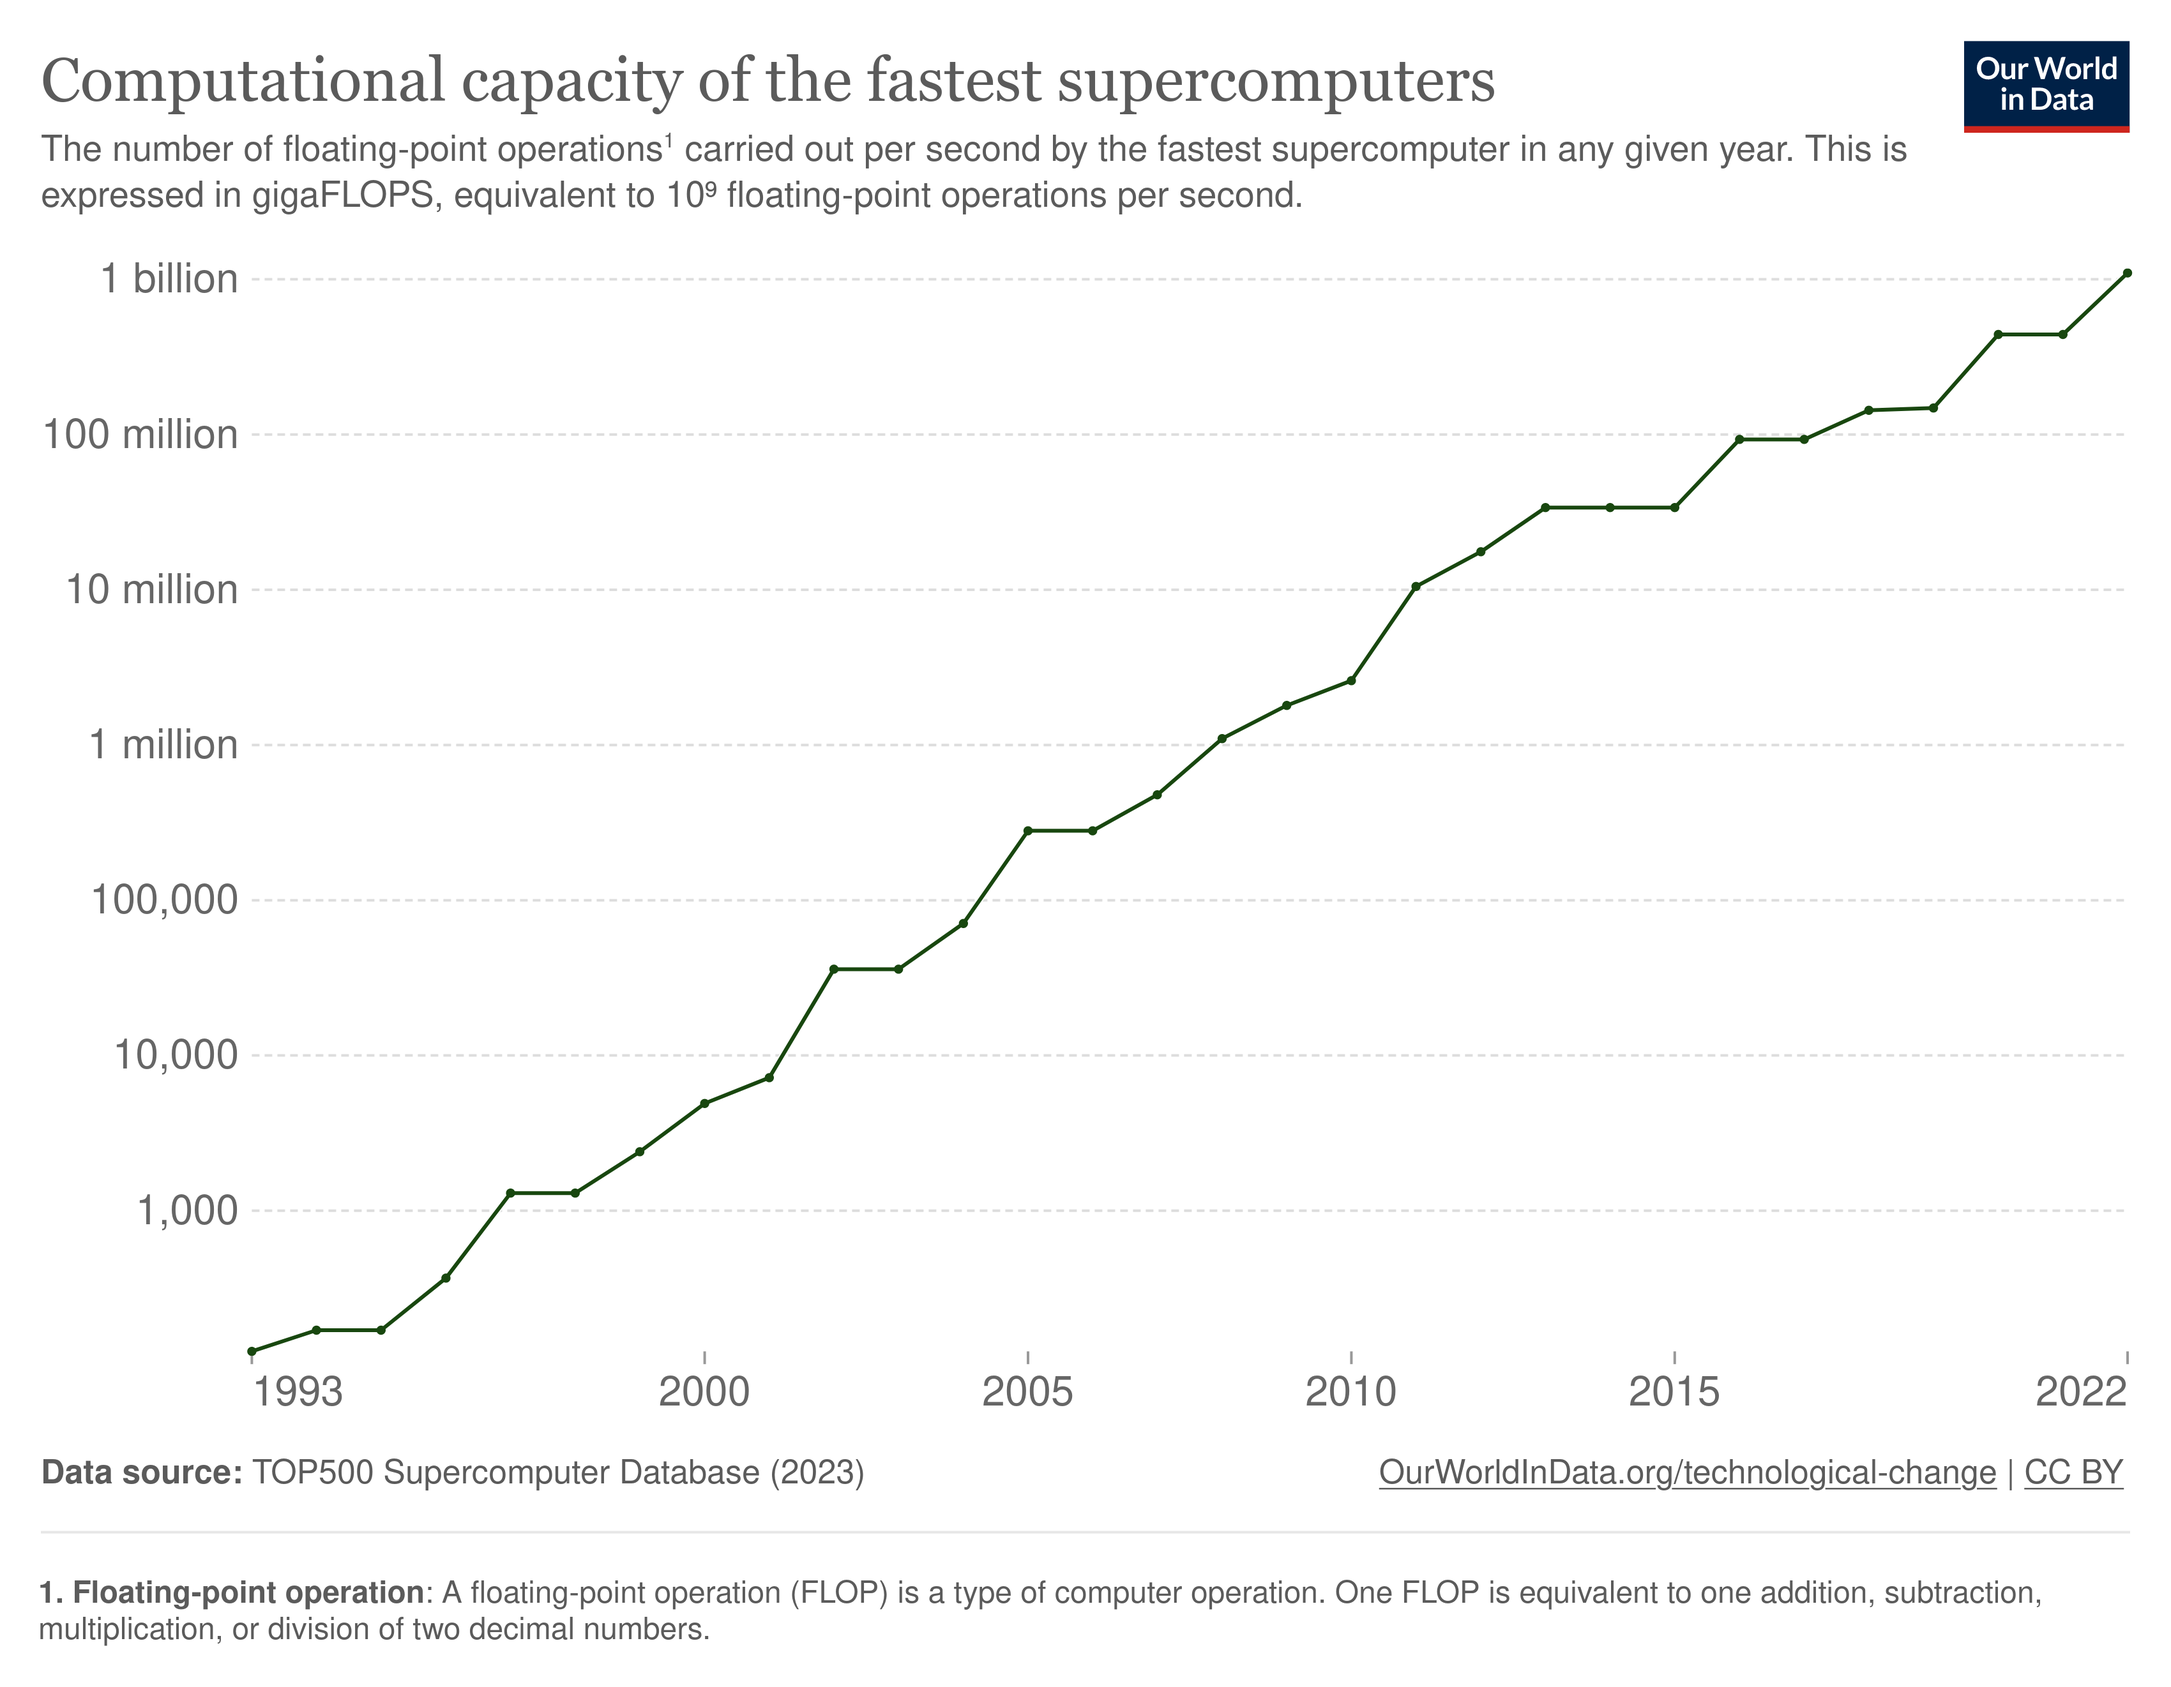
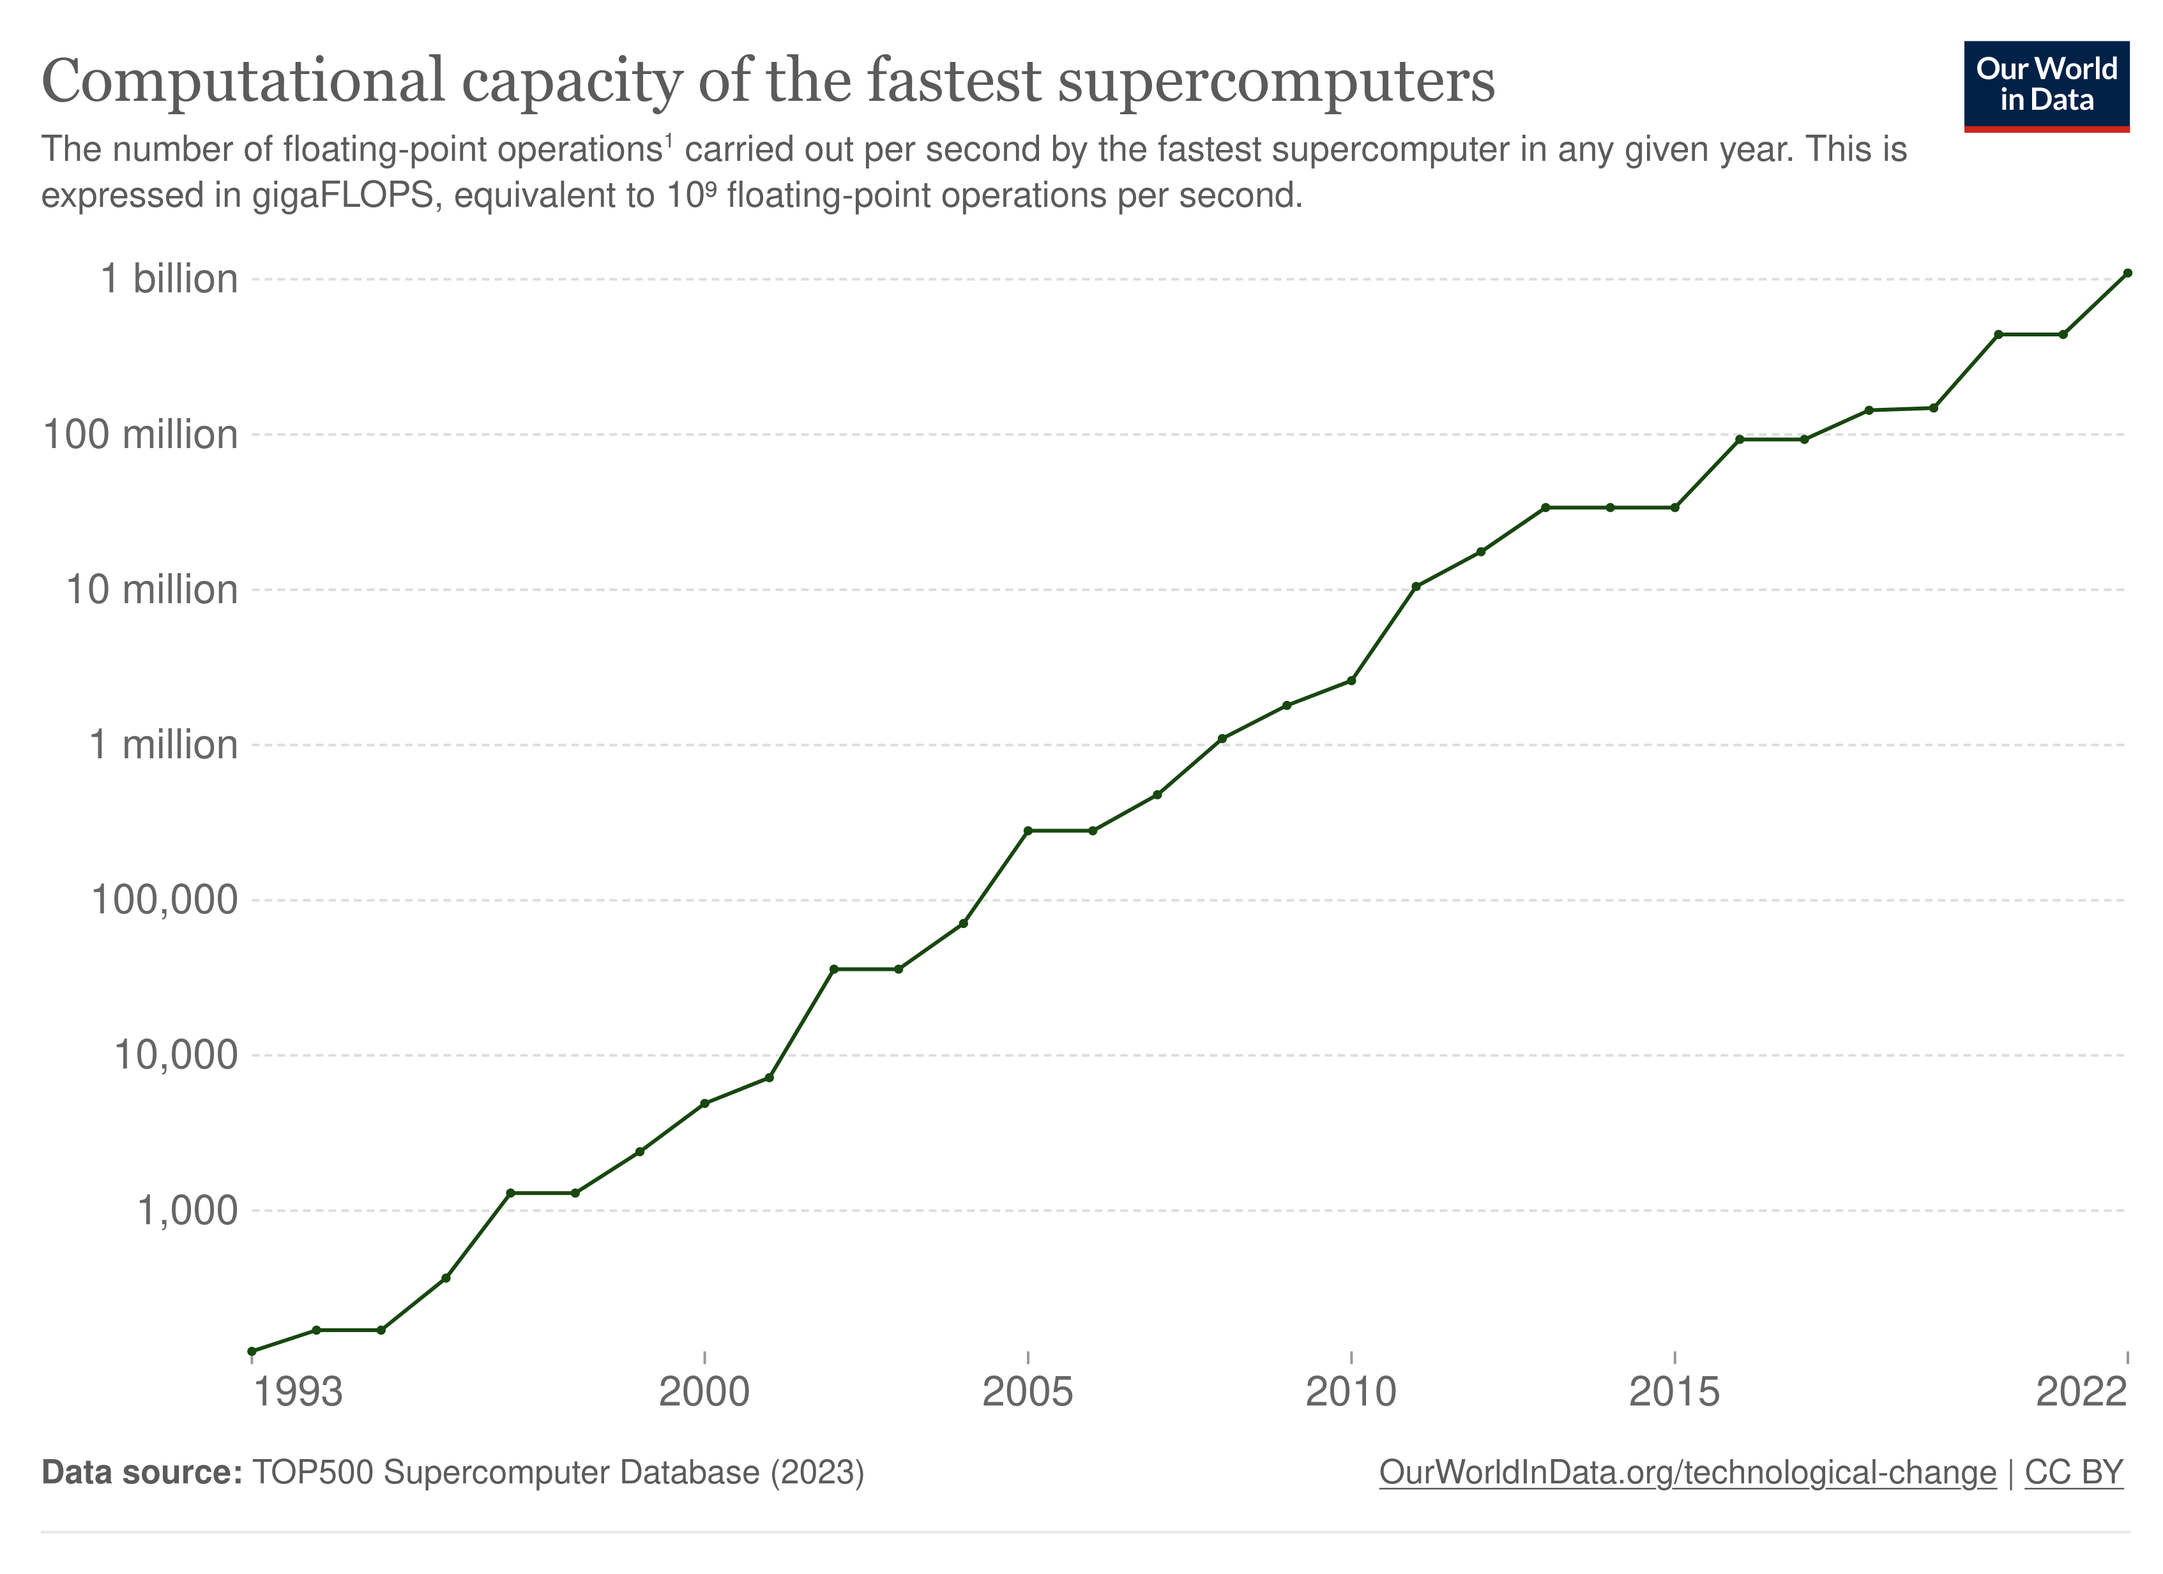
fix img

diff --git a/content/chapters/chapter1.tex b/content/chapters/chapter1.tex
@@ -9,7 +9,7 @@ Quando gli ingegneri si sono accorti che queste metodologie non sarebbero bastat
 \begin{figure}[ht]
 \centering
 \includegraphics[width=.9\linewidth]{images/chapter1/moore_law.png}
-\caption{Legge di Moore}
+\caption{Legge di Moore [fonte: ourworldindata.org]}
 \label{fig:moore_law}
 \end{figure}
 
@@ -27,8 +27,8 @@ Da quell'anno divenne chiaro che le \gls{GPU} sarebbero diventate una componente
 
 \begin{figure}[ht]
 \centering
-\includegraphics[width=.9\linewidth]{images/chapter1/supercomputer_flops.png}
-\caption{Potenza dei supercomputer negli anni}
+\includegraphics[width=.95\linewidth]{images/chapter1/supercomputer_flops.png}
+\caption{Potenza dei supercomputer negli anni [fonte: ourworldindata.org]}
 \label{fig:supercomputer_flops}
 \end{figure}
 
@@ -61,7 +61,7 @@ Per rispondere a queste domande si è agito nel seguente modo:
     \item Infine, considerando l'esperienza di sviluppo e i risultati relativi ai benchmark ottenuti, si è sviluppato un microservizio \textit{proof of concept}, che coniuga i vantaggi di Rust in ambito web con quelli di \gls{CUDA} in ambito computing. Si è inoltre valutato anche altri possibili approcci alla soluzione del problema.
 \end{itemize}
 
-
+\newpage
 
 \section[Struttura della tesi]{Struttura della tesi}
 

diff --git a/content/chapters/chapter2.tex b/content/chapters/chapter2.tex
@@ -49,7 +49,7 @@ Il modello OpenMP consente al programmatore di raggiungere un alto livello di pa
 \begin{figure}[ht]
     \centering
     \includegraphics[width=.9\linewidth]{images/chapter2/cuda_arch.png}
-    \caption{Architettura di una GPU CUDA-compatibile}
+    \caption{Architettura di una GPU CUDA-compatibile. Fonte: \cite[]{CUDA:Massive} pag. 20}
     \label{fig:cuda_arch}
 \end{figure}
 
